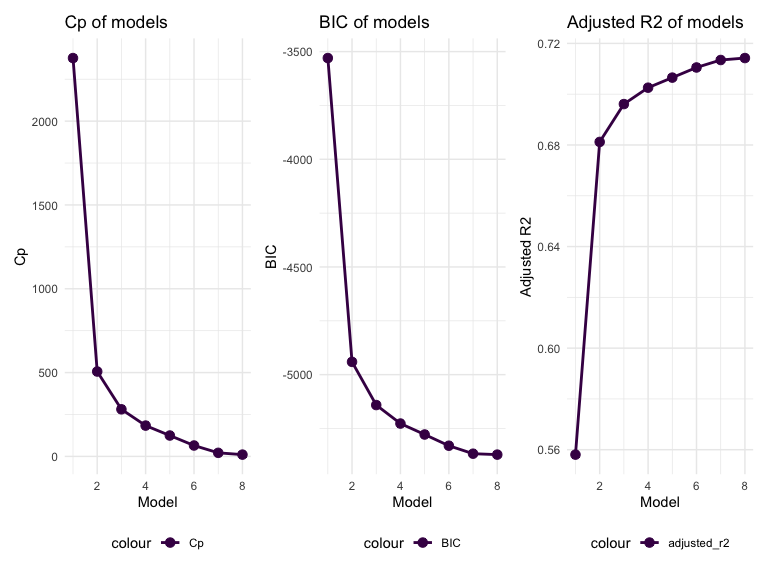
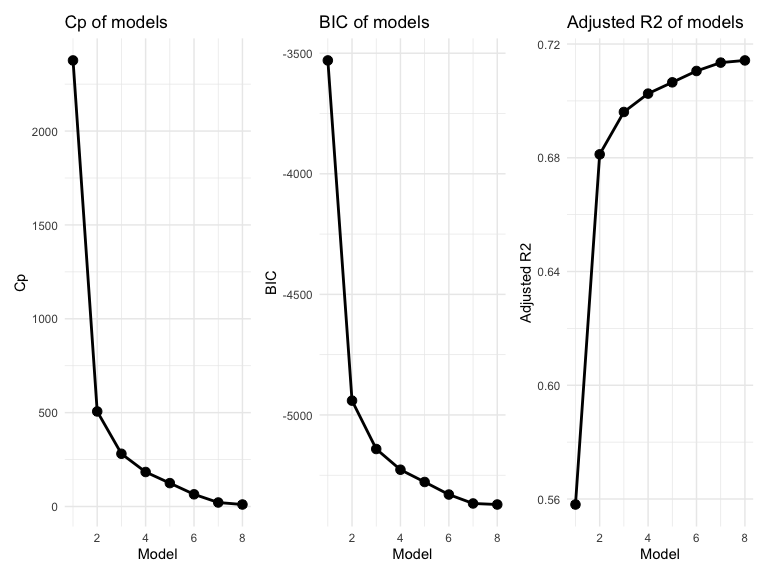
Change some comments

diff --git a/p8105_hw6_jt3387.md b/p8105_hw6_jt3387.md
@@ -202,10 +202,9 @@ all_city_glm %>%
   ggplot(aes(x = city_state, y = OR)) + 
   geom_point() + 
   geom_errorbar(aes(ymin = CI_lower, ymax = CI_upper)) + 
-  labs(
-    title = "Estimated OR and CI for Each City",
-    x = "City, State",
-    y = "Estimated Odds Ratio") +
+  labs(title = "Estimated OR and CI for Each City",
+       x = "City, State",
+       y = "Estimated Odds Ratio") +
   theme(axis.text.x = element_text(angle = 90, hjust = 1))
 ```
 
@@ -221,15 +220,15 @@ Comments on the plot:
     narrow CI, while Albuquerque, NM has the highest estimated odds
     ratio and a relatively broad CI among all cities.
 
--   Some cities’ CI contain 1, so there is not significant difference in
-    chance of solving the homicides with male or female victims at 0.05
-    significant level. Also, some cities have fairly broad confidence
-    intervals which indicates dispersion in the data, so the estimated
-    result must be interpreted with caution.
+-   Some cities’ confidence intervals contain 1, so there is no
+    significant difference in chance of solving the homicides with male
+    or female victims at 0.05 significant level. Also, some cities have
+    fairly broad confidence intervals which indicates dispersion in the
+    data, so the estimated result must be interpreted with caution.
 
 ## Problem 3
 
-Load and clean the data set.
+Load, clean, and have a overview of the data set.
 
 ``` r
 birthweight <-read_csv("./data/birthweight.csv") %>% 
@@ -239,8 +238,7 @@ birthweight <-read_csv("./data/birthweight.csv") %>%
                         `4` = "Puerto Rican", `8` = "Other", `9` = "Unknown")),
          malform = factor(recode(malform, `0` = "Absent", `1` = "Present")),
          mrace = factor(recode(mrace, `1` = "White", `2` = "Black", `3` = "Asian",
-                               `4` = "Puerto Rican", `8` = "Other"))
-  )
+                               `4` = "Puerto Rican", `8` = "Other")))
 skimr::skim(birthweight)
 ```
 
@@ -287,11 +285,6 @@ Data summary
 | ppwt          |         0 |             1 |  123.49 |  20.16 |  70.00 |  110.00 |  120.00 |  134.00 |  287.0 | ▅▇▁▁▁ |
 | smoken        |         0 |             1 |    4.15 |   7.41 |   0.00 |    0.00 |    0.00 |    5.00 |   60.0 | ▇▁▁▁▁ |
 | wtgain        |         0 |             1 |   22.08 |  10.94 | -46.00 |   15.00 |   22.00 |   28.00 |   89.0 | ▁▁▇▁▁ |
-
-``` r
-birthweight1 <- birthweight %>% 
-  mutate(parity = factor(parity))
-```
 
 -   I converted four variables: `babysex`, `frace`, `malform`, `mrace`
     into factors and recoded their values to the associated levels, then
@@ -343,7 +336,7 @@ summary(birthweight)
 -   We can find that there are only 0 values in variables `pnumlbw` and
     `pnumsga`, for variable `parity`, only 3 values are not 0 while
     other 4339 values are all 0, and variable `malform` has the similar
-    situation. Therefore they are not suitable to be predictors for
+    situation. Therefore, they are not suitable to be predictors for
     regression.
 
 Check the distribution of the outcome to see whether it satisfies the
@@ -353,18 +346,16 @@ normality assumption and whether it needs transformation.
 birthweight %>% ggplot(aes(x = bwt)) + 
   geom_histogram(aes(y = ..density..), fill = "light blue") +
   geom_density() + 
-  labs(
-    title = "Birthweight Distribution",
-    x = "Birthweight (grams)",
-    y = "Density"
-  )
+  labs(title = "Birthweight Distribution",
+       x = "Birthweight (grams)",
+       y = "Density")
 ```
 
 <img src="p8105_hw6_jt3387_files/figure-gfm/unnamed-chunk-9-1.png" width="90%" />
 
 -   From the distribution curve, we can see that the distribution of
-    birthweight is roughly normal. Therefore, we think that it satisfies
-    the normal assumption.
+    `bwt` is roughly normal. Therefore, we think that it satisfies the
+    normal assumption.
 
 Draw a correlation coefficient matrix to see the relationship between
 different variables.
@@ -391,22 +382,19 @@ Use boxplot to check the distribution of variables.
 ``` r
 pivotdata <- birthweight %>% 
   select(2, 3, 5, 6, 8, 10:12, 17:20) %>% 
-  pivot_longer(
-    everything(),
-    names_to = "variable",
-    values_to = "value"
-  )
+  pivot_longer(everything(),
+               names_to = "variable",
+               values_to = "value")
+
 pivotdata %>% 
   ggplot(aes(factor(variable), value)) + 
   geom_boxplot(
     aes(color = variable), 
     show.legend = FALSE, outlier.size = .8) + 
   facet_wrap(~variable, scale = "free") + 
-  labs(
-    title = "Boxplots of 12 numeric variables",
-    x = "Variable",
-    y = "Value"
-  )
+  labs(title = "Boxplots of 12 numeric variables",
+       x = "Variable",
+       y = "Value")
 ```
 
 <img src="p8105_hw6_jt3387_files/figure-gfm/unnamed-chunk-11-1.png" width="90%" />
@@ -414,9 +402,9 @@ pivotdata %>%
 -   From the boxplot, we can see that many variables’ IQR is not large
     and there are also outliers in them.
 
-Have a overview of the preliminary model based on previous analysis and
-known associations between birth weight and other variables, and find a
-better subset using `regsubsets` function.
+Have a overview of the preliminary model based on a hypothesized
+structure for the factors that underly birthweight and previous
+analysis, and find a better subset using `regsubsets` function.
 
 ``` r
 pre_model = lm(bwt ~ babysex + bhead + blength + frace + gaweeks + mheight + momage + mrace + smoken + wtgain, data = birthweight)
@@ -507,29 +495,23 @@ subset_model_sum
 ``` r
 cp_bic_r_df = data.frame(c(1:8), subset_model_sum$cp, subset_model_sum$bic, subset_model_sum$adjr2)
 p_cp <- ggplot() + 
-  geom_line(data = cp_bic_r_df, aes(x = c.1.8., y = subset_model_sum.cp, colour = "Cp"), size = 1) +
-  geom_point(data = cp_bic_r_df, aes(x = c.1.8.,y = subset_model_sum.cp, colour = "Cp"), size = 3) + 
-  labs(
-    title = "Cp of models",
-    x = "Model",
-    y = "Cp"
-  )
+  geom_line(data = cp_bic_r_df, aes(x = c.1.8., y = subset_model_sum.cp), size = 1) +
+  geom_point(data = cp_bic_r_df, aes(x = c.1.8.,y = subset_model_sum.cp), size = 3) + 
+  labs(title = "Cp of models",
+       x = "Model",
+       y = "Cp")
 p_bic <- ggplot() +
-  geom_line(data = cp_bic_r_df, aes(x = c.1.8., y = subset_model_sum.bic, colour ="BIC"), size = 1) + 
-  geom_point(data = cp_bic_r_df, aes(x = c.1.8., y = subset_model_sum.bic, colour = "BIC"), size = 3) +
-  labs(
-    title = "BIC of models",
-    x = "Model",
-    y = "BIC"
-  )
+  geom_line(data = cp_bic_r_df, aes(x = c.1.8., y = subset_model_sum.bic), size = 1) + 
+  geom_point(data = cp_bic_r_df, aes(x = c.1.8., y = subset_model_sum.bic), size = 3) +
+  labs(title = "BIC of models",
+       x = "Model",
+       y = "BIC")
 p_adjr2 <- ggplot() +
-  geom_line(data = cp_bic_r_df, aes(x = c.1.8., y = subset_model_sum.adjr2, colour ="adjusted_r2"), size = 1) + 
-  geom_point(data = cp_bic_r_df, aes(x = c.1.8., y = subset_model_sum.adjr2, colour = "adjusted_r2"), size = 3) +
-  labs(
-    title = "Adjusted R2 of models",
-    x = "Model",
-    y = "Adjusted R2"
-  )
+  geom_line(data = cp_bic_r_df, aes(x = c.1.8., y = subset_model_sum.adjr2), size = 1) + 
+  geom_point(data = cp_bic_r_df, aes(x = c.1.8., y = subset_model_sum.adjr2), size = 3) +
+  labs(title = "Adjusted R2 of models",
+       x = "Model",
+       y = "Adjusted R2")
 p_cp + p_bic + p_adjr2
 ```
 
@@ -573,19 +555,17 @@ birthweight %>%
   geom_point(alpha = 0.3) + 
   geom_smooth(se = FALSE) + 
   geom_hline(yintercept = 0, linetype = "dashed", color = "red") + 
-  labs(
-    title = "Residuals vs Fitted",
-    x = "Fitted Values",
-    y = "Residuals"
-  )
+  labs(title = "Residuals vs Fitted",
+       x = "Fitted Values",
+       y = "Residuals")
 ```
 
 <img src="p8105_hw6_jt3387_files/figure-gfm/unnamed-chunk-15-1.png" width="90%" />
 
-modeling process:
+Modeling process:
 
 -   Clean the data set including convert variables format and check
-    missing data.
+    missing values.
 
 -   Check the distribution of the outcome `bwt`, and find that it
     follows normal distribution.
@@ -595,43 +575,38 @@ modeling process:
     outliers of every quantitative variables.
 
 -   Build a linear regression model with variables of the initial
-    selection, the use regsubset function to choose a best model of the
-    subsets by maximizing adjusted r2 and minimizing Cp and BIC.
+    selection, then use `regsubset` function to choose a best model of
+    the subsets by maximizing adjusted r2 and minimizing Cp and BIC.
 
 -   Model diagnosis using residual vs fitted values plot.
 
 Model comparisons
 
 ``` r
-birthweight_cv <- crossv_mc(birthweight, 100)
+birthweight_cv <- crossv_mc(birthweight, 1000)
 
 birthweight_cv <- birthweight_cv %>% 
-  mutate(mod1 = map(train, ~lm(bwt ~ babysex + bhead + blength + gaweeks + 
-                                 mheight + mrace + smoken + wtgain, data = .x)),
+  mutate(mod1 = map(train, ~lm(bwt ~ babysex + bhead + blength + gaweeks + mheight + mrace + 
+                                 smoken + wtgain, data = .x)),
          mod2 = map(train, ~lm(bwt ~ blength + gaweeks, data = .x)),
          mod3 = map(train, ~lm(bwt ~ bhead + blength + babysex + bhead * blength + bhead * babysex + 
-                                 blength * babysex + bhead * blength * babysex, data = .x))
-         ) %>% 
+                                 blength * babysex + bhead * blength * babysex, data = .x))) %>% 
   mutate(rmse_mod1 = map2_dbl(mod1, test, ~rmse(model = .x, data = .y)),
          rmse_mod2 = map2_dbl(mod2, test, ~rmse(model = .x, data = .y)),
-         rmse_mod3 = map2_dbl(mod3, test, ~rmse(model = .x, data = .y))
-         )
+         rmse_mod3 = map2_dbl(mod3, test, ~rmse(model = .x, data = .y)))
 
 birthweight_cv %>% 
   select(c(7:9)) %>% 
   pivot_longer(everything(),
                names_to = "model",
                values_to = "rmse",
-               names_prefix = "rmse_"
-               ) %>% 
+               names_prefix = "rmse_") %>% 
   mutate(model = fct_inorder(model)) %>% 
   ggplot(aes(x = model, y = rmse, fill = model)) + 
   geom_violin(alpha = 0.3) + 
-  labs(
-    title = "Model Comparison",
-    x = "Model",
-    y = "Rmse"
-  )
+  labs(title = "Model Comparison",
+       x = "Model",
+       y = "Rmse")
 ```
 
 <img src="p8105_hw6_jt3387_files/figure-gfm/unnamed-chunk-16-1.png" width="90%" />
@@ -639,5 +614,5 @@ birthweight_cv %>%
 -   From the violin plot, we can see that the model we choose has the
     lowest prediction error compared to the other two models. The second
     model with baby length and gestational age as predictors performs
-    the worst which has the highest RMSE overall, and the interaction
+    the worst which has the highest Rmse overall, and the interaction
     model is in the middle.
